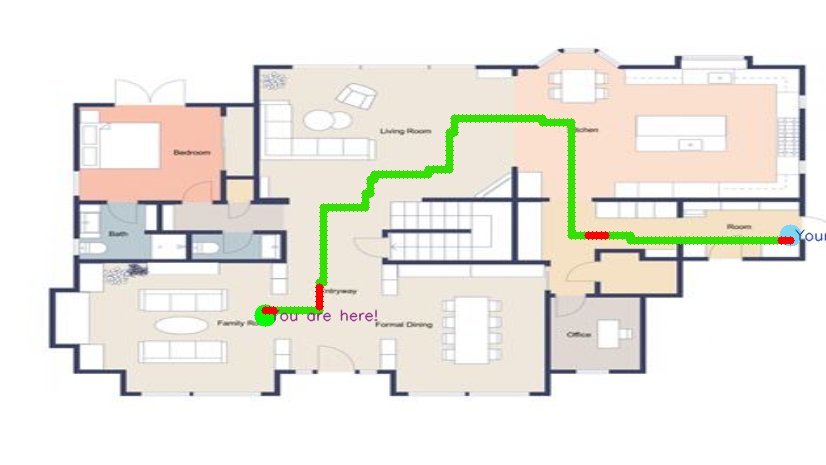
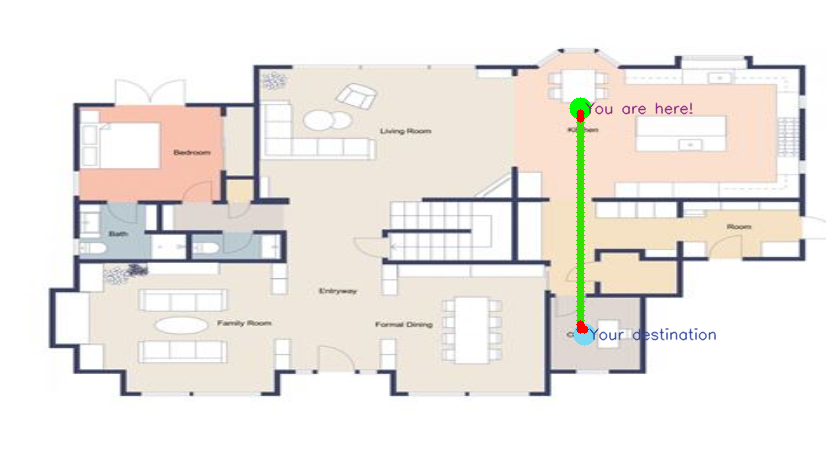
added the animation

Changed region(s): [[0.3027, 0.2108, 1.0, 0.7527]]

diff --git a/inmapapp/templates/inmapapp/result.html b/inmapapp/templates/inmapapp/result.html
@@ -19,6 +19,7 @@
   <link rel="stylesheet" href="https://cdnjs.cloudflare.com/ajax/libs/twitter-bootstrap/5.1.0/css/bootstrap.min.css" />
   <link rel="stylesheet" href="https://cdnjs.cloudflare.com/ajax/libs/font-awesome/5.15.4/css/all.min.css" />
   <link rel="stylesheet" href="{% static 'inmapapp/style.css'%}" />
+  <link rel="stylesheet" href="{% static 'inmapapp/animation.css'%}" />
   <script src="https://code.jquery.com/jquery-3.4.1.min.js"
     integrity="sha256-CSXorXvZcTkaix6Yvo6HppcZGetbYMGWSFlBw8HfCJo=" crossorigin="anonymous"></script>
     <script>
@@ -60,7 +61,7 @@
         <div class="img-wrapper-overlay"></div>
         <img src="{%static 'inmapapp/modfloor1.png' %}" class="img-fluid" alt="...">
         <div class="border border-primary rounded p-2">floor1</div>
-
+       
       </div>
       </div>
       {%endif%}
@@ -102,9 +103,30 @@
     
 
     
+    
+    
+    <div class="container">
+      <div class="row justify-content-center">
+        <div class="col-sm-6 col-md-4 text-center">
+          <i style="color:blue;"class="fas fa-walking fa-2x mb-3 blue-icon animated walking"></i>
+          <h4>Walkable Distance</h4>
+          <p class="lead mb-5">{{solution_meters}}m or {{solution_feet}}ft</p>
+        </div>
+        <div class="col-sm-6 col-md-4 text-center">
+          <i style="color:blue;" class="far fa-clock fa-2x mb-3 blue-icon animated ticking"></i>
+          <h4>Time Taken</h4>
+          <p class="lead mb-5">{{solution_time}} seconds</p>
+        </div>
+      </div>
+    </div>
+   
+    
+
+
     <hr />
-    <h4>Result in {{time}}</h4>
+    <h4>Result in {{time}}s</h4>
     <hr />
+       
     <div class="qr-heading text-center qr-form2 col-lg-5 mx-auto d-grid gap-3">
       <h3 class="justify-content-center" style="font-family: 'Dancing Script', cursive; font-size: 30px">
         feels lost? Rescan to update!

diff --git a/inmapapp/static/inmapapp/animation.css b/inmapapp/static/inmapapp/animation.css
@@ -1,0 +1,40 @@
+.blue-icon {
+    color: blue;
+  }
+  
+  .animated {
+    animation-duration: 1s;
+    animation-fill-mode: both;
+    animation-iteration-count: infinite;
+  }
+  
+  .walking {
+    animation-name: walk;
+  }
+  
+  @keyframes walk {
+    0% {
+      transform: translateX(0) scaleX(1);
+    }
+    25% {
+      transform: translateX(20px) scaleX(1.2);
+    }
+    50% {
+      transform: translateX(40px) scaleX(1);
+    }
+    75% {
+      transform: translateX(20px) scaleX(0.8);
+    }
+    100% {
+      transform: translateX(0) scaleX(1);
+    }
+  }
+  .ticking {
+    animation-name: tick;
+  }
+  
+  @keyframes tick {
+    50% {
+      transform: scale(1.2);
+    }
+  }

diff --git a/staticfiles/inmapapp/animation.css b/staticfiles/inmapapp/animation.css
@@ -1,0 +1,40 @@
+.blue-icon {
+    color: blue;
+  }
+  
+  .animated {
+    animation-duration: 1s;
+    animation-fill-mode: both;
+    animation-iteration-count: infinite;
+  }
+  
+  .walking {
+    animation-name: walk;
+  }
+  
+  @keyframes walk {
+    0% {
+      transform: translateX(0) scaleX(1);
+    }
+    25% {
+      transform: translateX(20px) scaleX(1.2);
+    }
+    50% {
+      transform: translateX(40px) scaleX(1);
+    }
+    75% {
+      transform: translateX(20px) scaleX(0.8);
+    }
+    100% {
+      transform: translateX(0) scaleX(1);
+    }
+  }
+  .ticking {
+    animation-name: tick;
+  }
+  
+  @keyframes tick {
+    50% {
+      transform: scale(1.2);
+    }
+  }

diff --git a/inmapapp/templates/inmapapp/index.html b/inmapapp/templates/inmapapp/index.html
@@ -383,7 +383,7 @@
                     if (navigator.share) {
                       navigator.share({
                         title: 'This is my location',
-                        text: 'Go to this url to get the location',
+                        text: "Hey I'm here, come find me!",
                         url: text
                       })
                       .then(() => console.log('Shared successfully'))

diff --git a/staticfiles/inmapapp/style.css b/staticfiles/inmapapp/style.css
@@ -8,6 +8,7 @@ body{
 overflow-x:hidden;
 
 }
+
 /* QR code reader window dimensions */
 #preview {
   width: 400px;
@@ -234,11 +235,13 @@ overflow:hidden;
 #overlay1,#overlay2{
 height:100vh;
 display:flex;
+
 justify-content:center;
 align-items:center;
 position:absolute;
 width:100%;
 transform: all;
+flex-direction:column;
 transition-duration:0.6s;
 
 }

diff --git a/inmapapp/static/inmapapp/style.css b/inmapapp/static/inmapapp/style.css
@@ -8,6 +8,7 @@ body{
 overflow-x:hidden;
 
 }
+
 /* QR code reader window dimensions */
 #preview {
   width: 400px;

diff --git a/inmapapp/views.py b/inmapapp/views.py
@@ -21,6 +21,10 @@ def index(request):
         return render(request,'inmapapp/index.html',{'image':"inmapapp/MAP.png",'time':'','update':False,'to_position':to_position,'from_position':from_position})    
     else:
         then = time.time()
+        avg_length_perpix = (23/738)
+        avg_breadth_perpix = (10/336)
+        apparent_shift = ((465/100)+(826/200))/2
+        avg_perpix = ((avg_length_perpix+avg_breadth_perpix)/2)*apparent_shift
         FromAuto = request.POST.get('fromLocation')
         ToAuto = request.POST.get('To')
         print(FromAuto,ToAuto)
@@ -37,11 +41,16 @@ def index(request):
             To_x,To_y = floor1checkpoint[To]
             m = Maze(os.path.abspath('inmapapp/static/inmapapp/floor1.txt'),From_x,From_y,To_x,To_y,"floor1.png")
             m.solve()
-            m.output_image()
+            solution_meters = round(m.output_image()*avg_perpix)
+            solution_time = round(solution_meters*1.2)
+            solution_feet = round(solution_meters*1.3)
+            # print(m.output_image())
+            print(avg_perpix)
+            print(solution_meters,solution_feet,solution_time)
             floor1 = True
             floor2 = False
             
-            return render(request,'inmapapp/result.html',{'floor1':floor1,'floor2':floor2,'time':time.time()-then,'update':True})
+            return render(request,'inmapapp/result.html',{'floor1':floor1,'floor2':floor2,'time':round(time.time()-then,3),'update':True,'solution_meters':solution_meters,'solution_feet':solution_feet,'solution_time':solution_time})
         if From in floor2checkpoint and To in floor2checkpoint:
             From_x,From_y = floor2checkpoint[From]
             To_x,To_y = floor2checkpoint[To]

diff --git a/inmapapp/mazetest.py b/inmapapp/mazetest.py
@@ -249,26 +249,23 @@ class Maze():
                 
                 
         # print(f"for image{self.imagename}")
-        print(checkpointlist)
+        # print(checkpointlist)
         for checkpoints in checkpointlist:    
             for points in floor1:
                 x_distance = abs(checkpoints[1]-points[0])
                 y_distance = abs(checkpoints[0]-points[1])
                 if x_distance<=2 and y_distance<=2:
-                    print(f"checkpoint{checkpoints} is near to point{points} of floor1")
+                    # print(f"checkpoint{checkpoints} is near to point{points} of floor1")
                     cv.circle(base_img,(round(checkpoints[1]*4.2),round(checkpoints[0]*4.7)),1,(0,0,255),5)       
             for points in floor2:
                 x_distance = abs(checkpoints[1]-points[0])
                 y_distance = abs(checkpoints[0]-points[1])
                 if x_distance<=2 and y_distance<=2:
-                    print(f"checkpoint{checkpoints} is near to point{points} of floor2")
+                    # print(f"checkpoint{checkpoints} is near to point{points} of floor2")
                     cv.circle(base_img,(round(checkpoints[1]*4.2),round(checkpoints[0]*4.7)),1,(0,0,255),5)
-        print(self.solution)
-                    
-
-
-
         cv.imwrite(os.path.abspath(f'inmapapp/static/inmapapp/mod{self.imagename}'),base_img)
+        # print(self.solution[1])
+        return len(self.solution[1])
 
 
         # img.save(filename)
